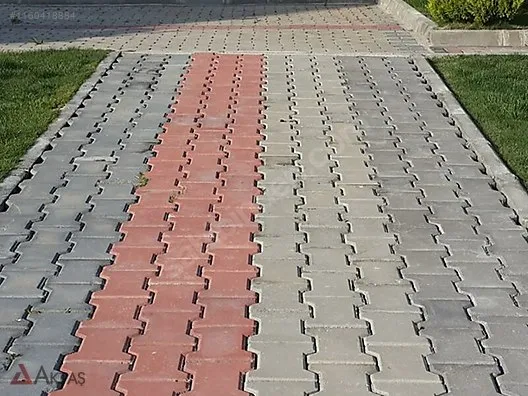
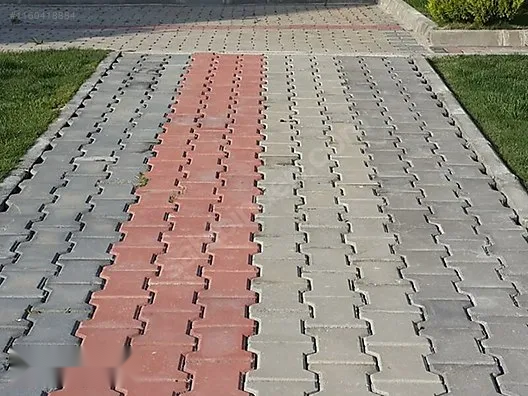
foto düzenlendi

Changed region(s): [[0.0, 0.8788, 0.2727, 0.9697]]

diff --git a/src/Pages/KilitliParkeTasi.jsx b/src/Pages/KilitliParkeTasi.jsx
@@ -27,17 +27,17 @@ const KilitliParkeTasi = () => {
             <img
               src="images/KİLİTLİ PARKE TAŞI/kilitli-parke-tası2.webp"
               alt="Kilitli Parke Taşı"
-              className="w-full max-w-[350px] h-[350px] rounded-lg shadow-lg mx-auto"
+              className="w-full max-w-[350px] h-[380px] rounded-lg shadow-lg mx-auto"
             />
             <img
               src="images/KİLİTLİ PARKE TAŞI/kilitli-parke-tası3.webp"
               alt="Kilitli Parke Taşı"
-              className="w-full max-w-[350px] h-[350px] rounded-lg shadow-lg mx-auto"
+              className="w-full max-w-[350px] h-[380px] rounded-lg shadow-lg mx-auto"
             />
             <img
               src="images/KİLİTLİ PARKE TAŞI/kilitli-parke-tası4.webp"
               alt="Kilitli Parke Taşı"
-              className="w-full max-w-[350px] h-[350px] rounded-lg shadow-lg mx-auto"
+              className="w-full max-w-[350px] h-[380px] rounded-lg shadow-lg mx-auto"
             />
           </div>
     
@@ -113,17 +113,17 @@ const KilitliParkeTasi = () => {
             <img
               src="images/KİLİTLİ PARKE TAŞI/kilitli-parke-tası1.webp"
               alt="Kilitli Parke Taşı"
-              className="w-full max-w-[350px] h-[350px] rounded-lg shadow-lg mx-auto"
+              className="w-full max-w-[350px] h-[380px] rounded-lg shadow-lg mx-auto"
             />
             <img
               src="images/KİLİTLİ PARKE TAŞI/kilitli-parke-tası5.webp"
               alt="Kilitli Parke Taşı"
-              className="w-full max-w-[350px] h-[350px] rounded-lg shadow-lg mx-auto"
+              className="w-full max-w-[350px] h-[380px] rounded-lg shadow-lg mx-auto"
             />
             <img
               src="images/KİLİTLİ PARKE TAŞI/kilitli-parke-tası6.webp"
               alt="Kilitli Parke Taşı"
-              className="w-full max-w-[350px] h-[350px] rounded-lg shadow-lg mx-auto"
+              className="w-full max-w-[350px] h-[380px] rounded-lg shadow-lg mx-auto"
             />
           </div>
         </div>

diff --git a/src/Pages/YolBordürü.jsx b/src/Pages/YolBordürü.jsx
@@ -30,17 +30,17 @@ const YolBordürü = () => {
           <img
             src="images/BAHCE BORDURU/yol-bordürü.webp"
             alt="30x70 yol Bordürü"
-            className="w-full max-w-[350px] h-[350px] rounded-lg shadow-lg mx-auto"
+            className="w-full max-w-[450px] h-[350px] rounded-lg shadow-lg mx-auto"
           />
           <img
-            src="images/BAHCE BORDURU/bahce-borduru3.webp"
+            src="images/BAHCE BORDURU/30x70-yol.webp"
             alt="30x70 yol Bordürü"
-            className="w-full max-w-[350px] h-[350px] rounded-lg shadow-lg mx-auto"
+            className="w-full max-w-[450px] h-[350px] rounded-lg shadow-lg mx-auto"
           />
           <img
-            src="images/BAHCE BORDURU/bahce-borduru2.webp"
+            src="images/BAHCE BORDURU/30x70-yol3.webp"
             alt="30x70 yol Bordürü"
-            className="w-full max-w-[350px] h-[350px] rounded-lg shadow-lg mx-auto"
+            className="w-full max-w-[450px] h-[350px] rounded-lg shadow-lg mx-auto"
           />
         </div>
 
@@ -120,14 +120,14 @@ const YolBordürü = () => {
         {/* Diğer Görseller */}
         <div className="grid grid-cols-1 md:grid-cols-2 lg:grid-cols-3 gap-6">
           <img
-            src="images/BAHCE BORDURU/bahce-borduru1.webp"
+            src="images/BAHCE BORDURU/30x70-yol2.webp"
             alt="30x70 yol Bordürü"
-            className="w-full max-w-[350px] h-[350px] rounded-lg shadow-lg mx-auto"
+            className="w-full max-w-[450px] h-[350px] rounded-lg shadow-lg mx-auto"
           />
           <img
-            src="images/BAHCE BORDURU/20x70.webp"
+            src="images/BAHCE BORDURU/30x70yol1.webp"
             alt="30x70 yol Bordürü"
-            className="w-full max-w-[350px] h-[350px] rounded-lg shadow-lg mx-auto"
+            className="w-full max-w-[450px] h-[350px] rounded-lg shadow-lg mx-auto"
           />
         
         </div>

diff --git a/src/Pages/BetonBarbeküTasi.jsx b/src/Pages/BetonBarbeküTasi.jsx
@@ -129,6 +129,21 @@ const BetonBarbeküTasi = () => {
             alt="Beton Barbekü Taşı"
             className="w-full max-w-[350px] h-[400px] rounded-lg shadow-lg mx-auto"
           />
+          <img
+            src="images/BETON BARBEKÜ TAŞI/beton-barbekü-tası2.webp"
+            alt="Beton Barbekü Taşı"
+            className="w-full max-w-[350px] h-[400px] rounded-lg shadow-lg mx-auto"
+          />
+          <img
+            src="images/BETON BARBEKÜ TAŞI/beton-barbekü-tası7.webp"
+            alt="Beton Barbekü Taşı"
+            className="w-full max-w-[350px] h-[400px] rounded-lg shadow-lg mx-auto"
+          />
+           <img
+            src="images/BETON BARBEKÜ TAŞI/beton-barbekü-tası1.webp"
+            alt="Beton Barbekü Taşı"
+            className="w-full max-w-[350px] h-[400px] rounded-lg shadow-lg mx-auto"
+          />
         </div>
       </div>
     </>

diff --git a/src/Component/Section.jsx b/src/Component/Section.jsx
@@ -3,10 +3,13 @@ import React, { useState, useEffect } from "react";
 const Section = () => {
   const images = [
     "images/sev-tas.webp",
+    "images/anakapak3.webp",
     "images/flora-tas.webp",
+    "images/anakapak4.webp",
     "images/oluk-tas.webp",
     "images/kareparke-tas.webp",
     "images/kilitli-tas.webp",
+    
   ];
 
   const [currentIndex, setCurrentIndex] = useState(0);
@@ -39,7 +42,7 @@ const Section = () => {
       {/* Fotoğraf */}
       <div className="w-full h-[550px] overflow-hidden flex justify-center items-center">
         <img
-          className="w-full h-full object-cover rounded-lg shadow-lg"
+          className="w-full h-full object-cover object-center rounded-lg shadow-lg"
           src={images[currentIndex]}
           alt={`Slide ${currentIndex + 1}`}
         />

diff --git a/src/Pages/SevTasi.jsx b/src/Pages/SevTasi.jsx
@@ -36,7 +36,7 @@ const SevTasi = () => {
           className="w-full max-w-[350px] h-[350px] rounded-lg shadow-lg mx-auto"
         />
         <img
-          src="images/ŞEV TAŞI/sev-tası3.webp"
+          src="images/ŞEV TAŞI/sev-tası7.webp"
           alt="Şev Taşı"
           className="w-full max-w-[350px] h-[350px] rounded-lg shadow-lg mx-auto"
         />
@@ -128,6 +128,11 @@ const SevTasi = () => {
         />
         <img
           src="images/ŞEV TAŞI/sev-tası5.webp"
+          alt="Şev Taşı"
+          className="w-full max-w-[350px] h-[350px] rounded-lg shadow-lg mx-auto"
+        />
+        <img
+          src="images/ŞEV TAŞI/sev-tası3.webp"
           alt="Şev Taşı"
           className="w-full max-w-[350px] h-[350px] rounded-lg shadow-lg mx-auto"
         />

diff --git a/src/Pages/KareParkeTasi40x40.jsx b/src/Pages/KareParkeTasi40x40.jsx
@@ -123,7 +123,7 @@ const KareParkeTasi = () => {
             className="w-full max-w-[350px] h-[350px] rounded-lg shadow-lg mx-auto"
           />
           <img
-            src="images/KARE PARKE TAŞI/40x40-kare1.webp"
+            src="images/KARE PARKE TAŞI/40x40-kare6.webp"
             alt="Kare Parke Taşı"
             className="w-full max-w-[350px] h-[350px] rounded-lg shadow-lg mx-auto"
           />

diff --git a/src/Component/Gallery.jsx b/src/Component/Gallery.jsx
@@ -61,7 +61,7 @@ const Gallery = () => {
               <img
                 src={image.src}
                 alt={image.alt}
-                className="w-full h-[280px] object-cover"
+                className="w-full h-40 object-cover"
                 loading="lazy"
               />
             </div>

diff --git a/src/Component/Services.jsx b/src/Component/Services.jsx
@@ -36,7 +36,7 @@ const Services = () => {
         {[
           {
             title: "ŞEV TAŞI",
-            imgSrc: "images/ŞEV TAŞI/sev-tası6.webp",
+            imgSrc: "images/ŞEV TAŞI/sev-tası3.webp",
             path: "/sev-tasi",
           },
           {
